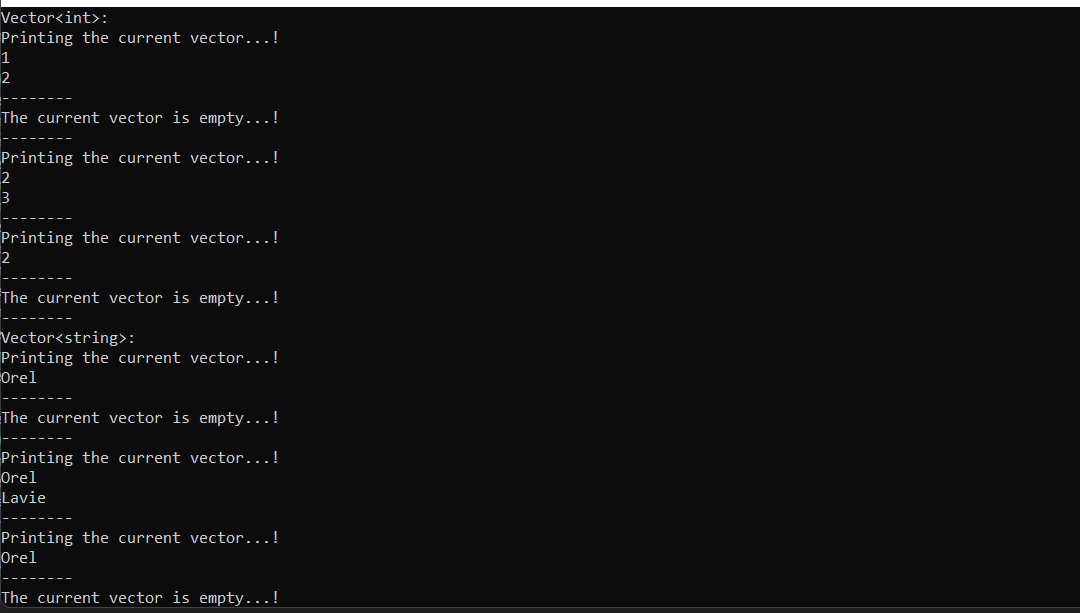
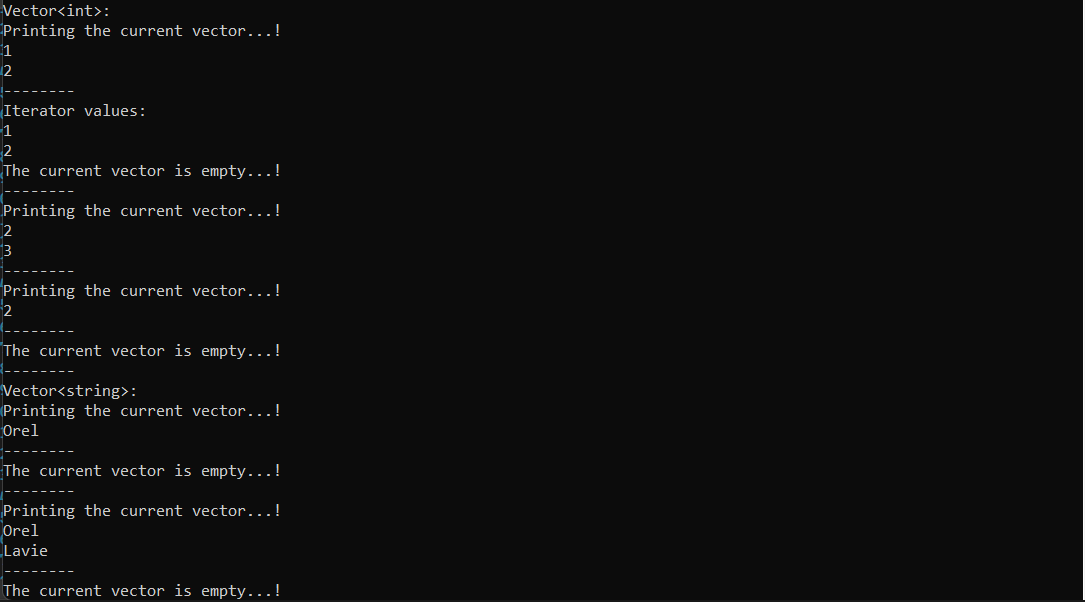
updated vector

Changed region(s): [[0.0, 0.0, 1.0, 1.0]]

diff --git a/CPP/VectorImplementation/src/Vector.h b/CPP/VectorImplementation/src/Vector.h
@@ -3,9 +3,71 @@
 #include <iostream>
 #include <algorithm>
 
+template <typename Vector>
+class VectorIterator
+{
+public:
+	using ValueType = typename Vector::value_type;
+	using PtrType = ValueType*;
+	using RefType = ValueType&;
+private:
+	PtrType m_vptr;
+	size_t m_size;
+public:
+	VectorIterator(PtrType v_ptr,size_t size): m_vptr(v_ptr), m_size(size)
+	{}
+	VectorIterator& operator++()
+	{
+		m_vptr++;
+		return *this;
+	}
+	VectorIterator operator++(int)
+	{
+		VectorIterator vi = *this;
+		++(*this);
+		return vi;
+	}
+	VectorIterator& operator--()
+	{
+		m_vptr--;
+		return *this;
+	}
+	VectorIterator operator--(int)
+	{
+		VectorIterator vi = *this;
+		--(*this);
+		return vi;
+	}
+	RefType operator[](size_t idx)
+	{
+		if (m_size >0) //avoid crashing the program when using iterator end
+			assert(idx < m_size);
+		return *(m_vptr + idx);
+	}
+	RefType operator*()
+	{
+		return *m_vptr;
+	}
+	PtrType operator->()
+	{
+		return m_vptr;
+	}
+	bool operator==(const VectorIterator& other) const
+	{
+		return m_vptr == other.m_vptr;
+	}
+	bool operator!=(const VectorIterator& other) const
+	{
+		return m_vptr != other.m_vptr;
+	}
+};
+
 template <typename T>
 class Vector
 {
+public:
+	using value_type = T;
+	using Iterator = VectorIterator<Vector<T>>;
 private:
 	T* m_data = nullptr;
 	const size_t m_new_size_mult = 2;
@@ -104,5 +166,14 @@ public:
 		}
 		new(&m_data[m_size]) T(std::forward<Arguments>(args)...); // call c'tor direct over heap, inplace
 		return m_data[m_size++];
+	}
+	
+	Iterator begin()
+	{
+		return Iterator(m_data,m_size);
+	}
+	Iterator end()
+	{
+		return Iterator(m_data+m_size,0);
 	}
 };

diff --git a/CPP/VectorImplementation/src/main.cpp b/CPP/VectorImplementation/src/main.cpp
@@ -3,6 +3,8 @@
 #include "Vector.h"
 
 
+
+
 int main()
 {
 	Vector<int> my_vector_int;
@@ -10,6 +12,12 @@ int main()
 	my_vector_int.PushBack(1);
 	my_vector_int.PushBack(2);
 	std::cout << my_vector_int;
+
+	std::cout << "Iterator values:\n";
+	for (auto& val : my_vector_int)
+	{
+		std::cout << val << "\n";
+	}
 	my_vector_int.PopBack();
 	my_vector_int.PopBack();
 	std::cout << my_vector_int;
@@ -21,6 +29,10 @@ int main()
 	my_vector_int.PopBack();
 	std::cout << my_vector_int;
 
+	my_vector_int.PushBack(1);
+	my_vector_int.PushBack(2);
+	my_vector_int.PushBack(3);
+
 	std::cout << "Vector<string>:\n";
 	Vector<std::string> my_vector_str;
 	my_vector_str.EmplaceBack("Orel");
@@ -31,9 +43,9 @@ int main()
 	my_vector_str.EmplaceBack("Lavie");
 	std::cout << my_vector_str;
 	my_vector_str.PopBack();
-	std::cout << my_vector_str;
 	my_vector_str.PopBack();
 	std::cout << my_vector_str;
+
 
 	std::cin.get();
 	return 0;

diff --git a/CPP/VectorImplementation/README.md b/CPP/VectorImplementation/README.md
@@ -1,7 +1,9 @@
-# std - Vector self implementation based on CPP
+# std :: Vector custom implementation based on CPP
 
 ![alt tag](https://github.com/orel1212/MyWorks/blob/main/CPP/CustomerWaiterTA/%E2%80%8F%E2%80%8Fs1.PNG)
-
+## Features
+1. Dynamic capacity <br>
+2. Iterator DP
 ## How To Run
 run ./src/main.cpp via c++ compiler/IDE <br>
 for example: ./main.cpp <br>
